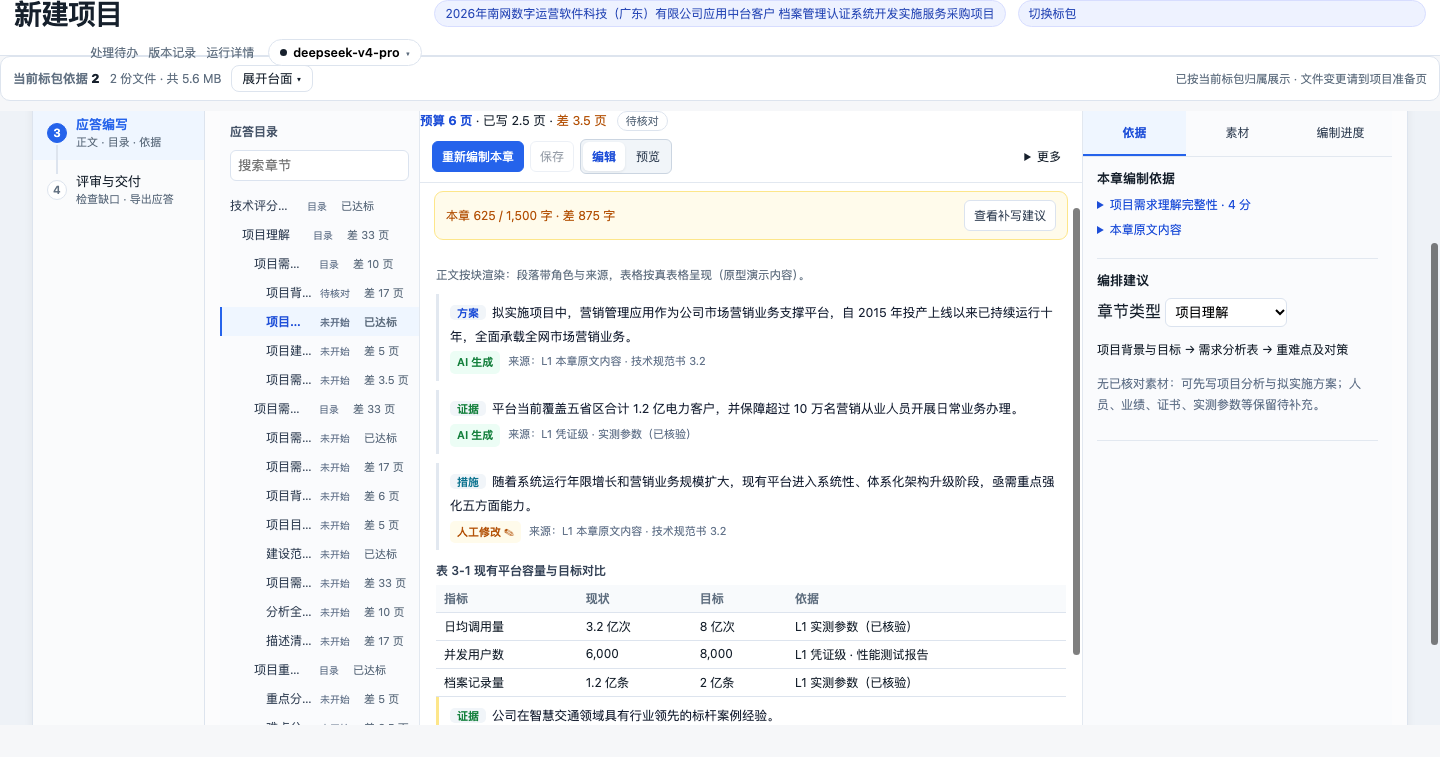
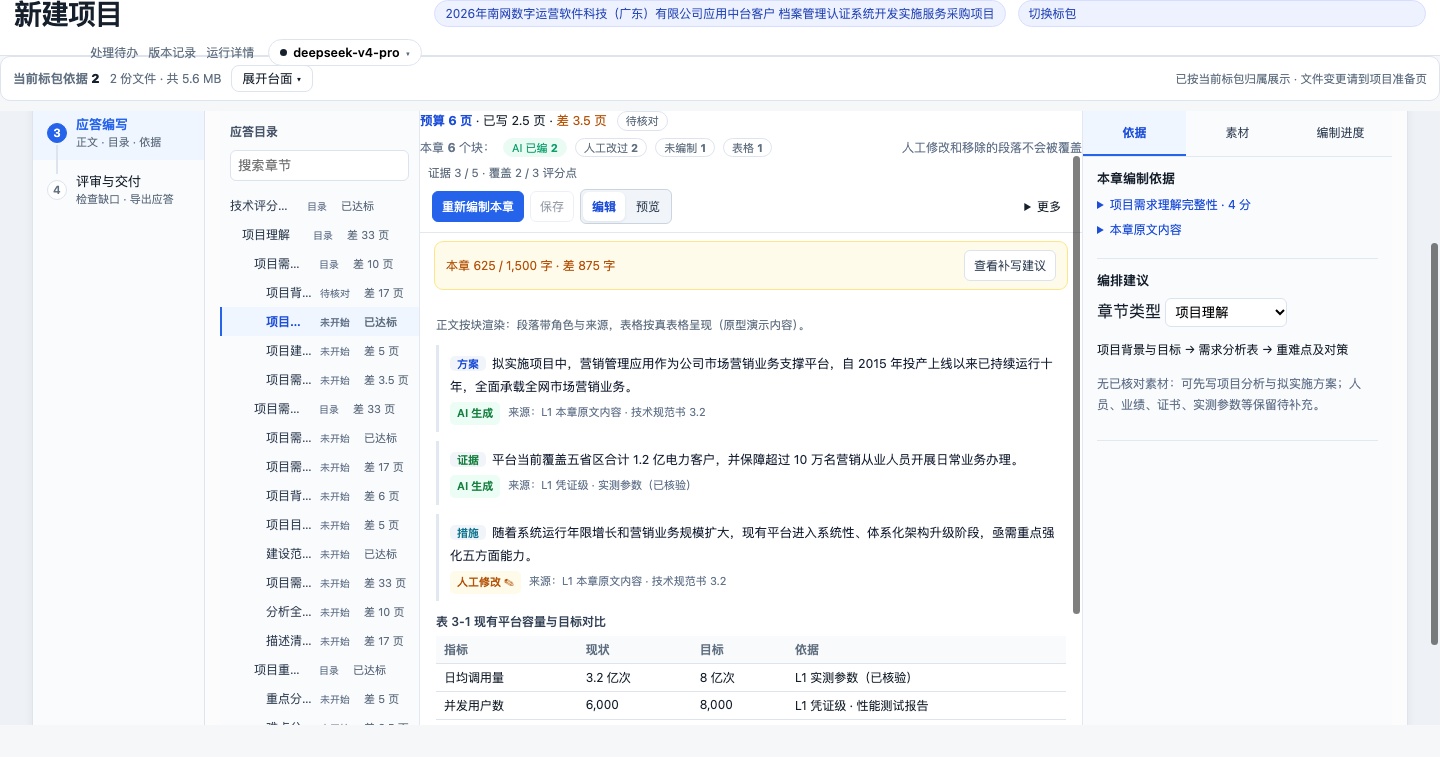
docs(design): 修正章头段数条被裁切（移到章头容器外）+ 更新截图
- 段数条原本被插在 .cs-chapter-heading 内部，被容器裁掉不可见；
  现移到预算行之后、与预算行同父，实测 budgetVisible/segVisible 均为 true，顺序 budget→seg
- 同时隐藏真实的 details.cs-history（最近导出任务），避免与块级正文重叠

Changed region(s): [[0.2812, 0.1823, 0.75, 0.9723], [0.7188, 0.8203, 0.75, 0.8811], [0.5312, 0.79, 0.5625, 0.8203]]

diff --git a/docs/design/mockups/prod-prototype.html b/docs/design/mockups/prod-prototype.html
@@ -15481,6 +15481,9 @@ GB/T 35274-2023《数据安全技术 大数据服务安全能力要求》
     budget.innerHTML='<span><b style="color:#1d4ed8">预算 6 页</b> · 已写 2.5 页 · <span style="color:#b45309">差 3.5 页</span></span>'+
       '<span class="ui-pill is-none">待核对</span>';
     head.parentElement.insertBefore(budget, head.nextSibling);
+    // 段数条原本被插在章头容器内部会被裁掉：移到预算行之后（同在章头容器外）
+    var segBar=document.getElementById('segBar');
+    if(segBar) head.parentElement.insertBefore(segBar, budget.nextSibling);
   }
   /* 证据/覆盖并进已有段数条 */
   var seg=document.getElementById('segBar');
